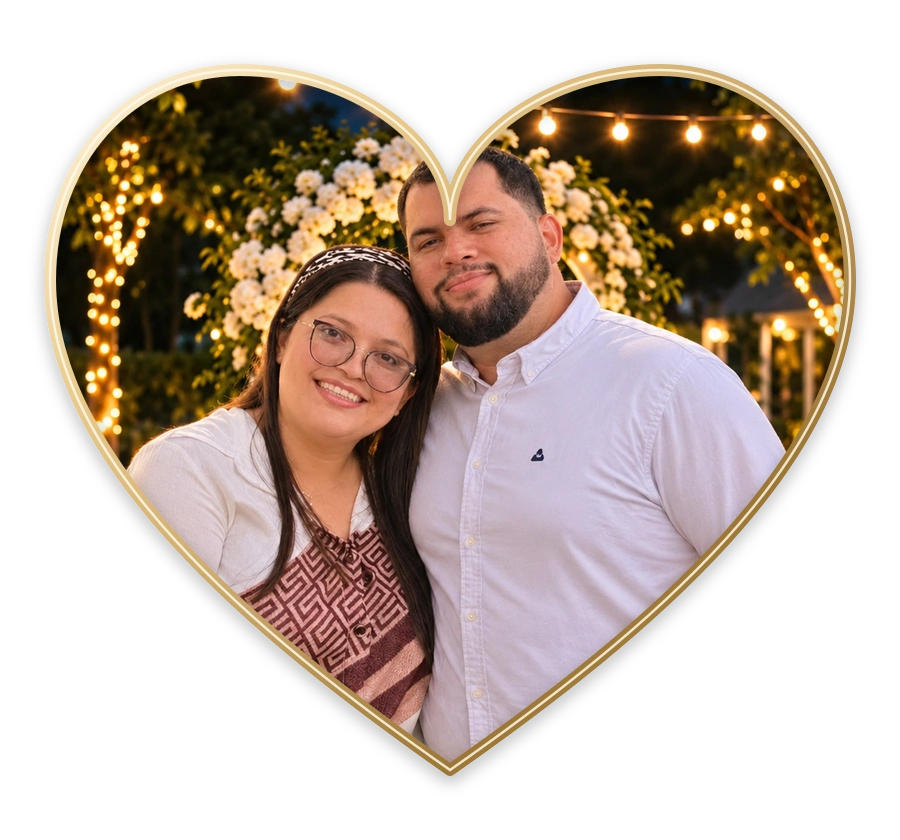
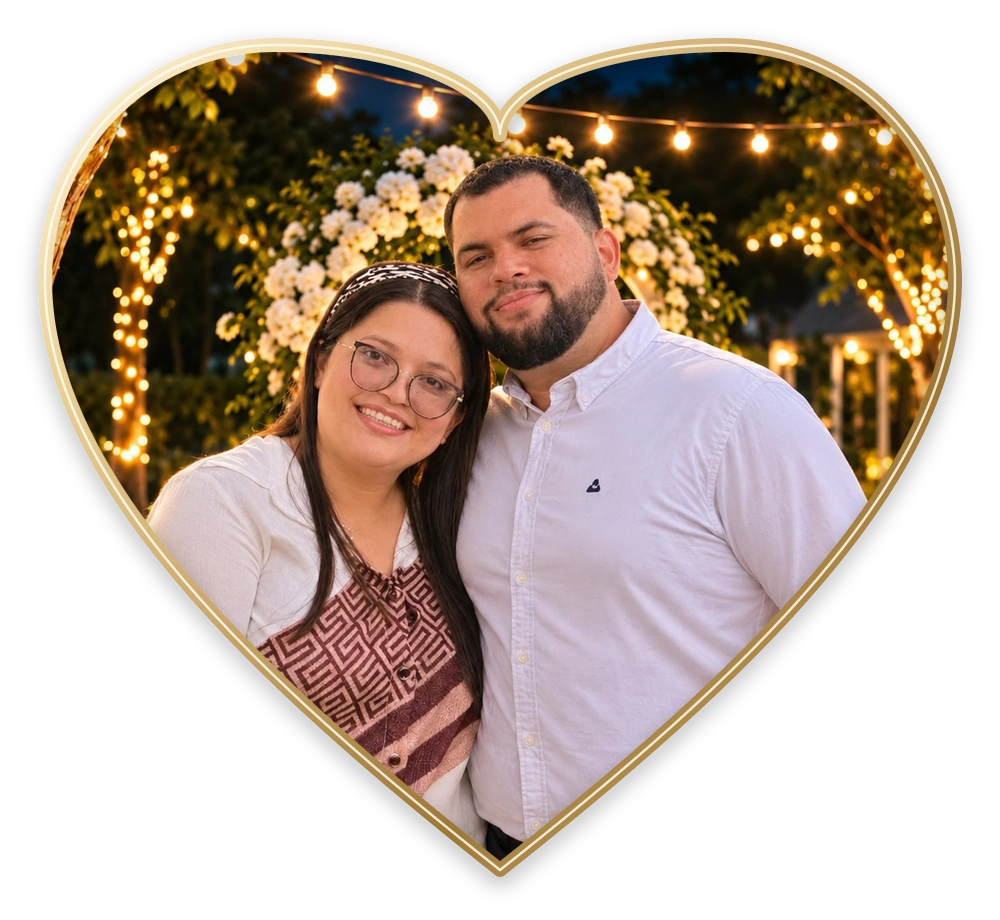
fix(dresscode): enlarge heart frame by 35%, soften cleavage, and adjust photo headroom

diff --git a/scripts/generate-heart-frame.js b/scripts/generate-heart-frame.js
@@ -1,12 +1,21 @@
 const sharp = require('sharp');
 const path = require('path');
 
-const W = 900;
-const H = 840;
+const W = 1000;
+const H = 920;
 
-// Beautiful romantic heart path with generous top lobes for two faces
-// Coordinates designed for 900x840
-const heartPath = 'M 450 220 C 450 140, 350 70, 240 70 C 130 70, 50 160, 50 280 C 50 460, 250 630, 450 770 C 650 630, 850 460, 850 280 C 850 160, 770 70, 660 70 C 550 70, 450 140, 450 220 Z';
+// Romantic heart with wide, gentle upper curvature and shallow indentation
+// Designed so the upper dip does not cut into either person's head
+const heartPath = `
+  M 500 135
+  C 500 85, 395 45, 275 45
+  C 145 45, 45 150, 45 280
+  C 45 480, 260 680, 500 870
+  C 740 680, 955 480, 955 280
+  C 955 150, 855 45, 725 45
+  C 605 45, 500 85, 500 135
+  Z
+`.trim().replace(/\s+/g, ' ');
 
 const maskSvg = Buffer.from(`
 <svg width="${W}" height="${H}" viewBox="0 0 ${W} ${H}" xmlns="http://www.w3.org/2000/svg">
@@ -18,20 +27,21 @@ const borderSvg = Buffer.from(`
 <svg width="${W}" height="${H}" viewBox="0 0 ${W} ${H}" xmlns="http://www.w3.org/2000/svg">
   <defs>
     <linearGradient id="goldGrad" x1="0%" y1="0%" x2="100%" y2="100%">
-      <stop offset="0%" stop-color="#FFF5DE" />
-      <stop offset="25%" stop-color="#E8CA8C" />
-      <stop offset="50%" stop-color="#C8A569" />
-      <stop offset="75%" stop-color="#9C7736" />
-      <stop offset="100%" stop-color="#D4B376" />
+      <stop offset="0%" stop-color="#FFF6E0" />
+      <stop offset="20%" stop-color="#ECD299" />
+      <stop offset="45%" stop-color="#C8A569" />
+      <stop offset="70%" stop-color="#9C7736" />
+      <stop offset="85%" stop-color="#C8A569" />
+      <stop offset="100%" stop-color="#EED59E" />
     </linearGradient>
-    <filter id="goldGlow" x="-10%" y="-10%" width="120%" height="120%">
-      <feDropShadow dx="0" dy="6" stdDeviation="8" flood-color="rgba(0,0,0,0.3)" />
+    <filter id="goldGlow" x="-15%" y="-15%" width="130%" height="130%">
+      <feDropShadow dx="0" dy="8" stdDeviation="10" flood-color="rgba(0,0,0,0.3)" />
     </filter>
   </defs>
-  <!-- Outer subtle shadow border -->
-  <path d="${heartPath}" fill="none" stroke="url(#goldGrad)" stroke-width="12" stroke-linejoin="round" filter="url(#goldGlow)" />
-  <!-- Inner thin gold hairline -->
-  <path d="${heartPath}" fill="none" stroke="#FFF8E8" stroke-width="2.5" stroke-opacity="0.85" />
+  <!-- Outer metallic gold border -->
+  <path d="${heartPath}" fill="none" stroke="url(#goldGrad)" stroke-width="14" stroke-linejoin="round" filter="url(#goldGlow)" />
+  <!-- Inner delicate bright golden line -->
+  <path d="${heartPath}" fill="none" stroke="#FFFBF0" stroke-width="2.5" stroke-opacity="0.85" />
 </svg>
 `);
 
@@ -40,26 +50,56 @@ async function run() {
   const outArtifact = 'C:/Users/Najip/.gemini/antigravity/brain/add89a44-31c8-4b18-99b3-21df3c1cd72a/heart-preview.png';
   const outPublic = path.resolve(__dirname, '../public/images/assets/dresscode-novios-heart.webp');
 
-  // We want the photo cropped and scaled so both heads fit comfortably inside the heart lobes
-  // In novios.png (1158x1219), faces are around y: 150-700
-  const resizedPhoto = await sharp(inputPath)
-    .resize(W, H, { fit: 'cover', position: sharp.position.top })
+  // Scale photo so both heads and surrounding lights have ample headroom
+  // Original is 1158 x 1219 (aspect ~ 0.95)
+  // We scale to 960 width x 1010 height (proportional, no distortion!)
+  const photoW = 960;
+  const photoH = Math.round((1219 / 1158) * photoW); // 1010
+
+  // Resize and extract top 920px (faces are in the top-middle)
+  const scaledPhoto = await sharp(inputPath)
+    .resize(photoW, photoH)
+    .extract({ left: 0, top: 0, width: photoW, height: 920 })
     .toBuffer();
 
-  const masked = await sharp(resizedPhoto)
-    .composite([{ input: maskSvg, blend: 'dest-in' }])
+  // Create empty transparent canvas of W x H (1000 x 920)
+  // Place photo centered horizontally (left: (1000-960)/2 = 20)
+  const canvasWithPhoto = await sharp({
+    create: {
+      width: W,
+      height: H,
+      channels: 4,
+      background: { r: 0, g: 0, b: 0, alpha: 0 }
+    }
+  })
+    .composite([
+      { input: scaledPhoto, left: 20, top: 0 }
+    ])
+    .png()
     .toBuffer();
 
-  const finalImage = await sharp(masked)
-    .composite([{ input: borderSvg, blend: 'over' }])
+  // Mask with heart
+  const masked = await sharp(canvasWithPhoto)
+    .composite([
+      { input: maskSvg, blend: 'dest-in' }
+    ])
+    .png()
+    .toBuffer();
+
+  // Overlay gold border
+  await sharp(masked)
+    .composite([
+      { input: borderSvg, blend: 'over' }
+    ])
     .webp({ quality: 96 })
     .toFile(outPublic);
 
+  // Also write PNG for inspection
   await sharp(outPublic)
     .png()
     .toFile(outArtifact);
 
-  console.log('Heart frame generated successfully!');
+  console.log('New spacious heart frame generated successfully!');
 }
 
 run().catch(console.error);

diff --git a/src/components/invitation/sections/section-05-dresscode.tsx b/src/components/invitation/sections/section-05-dresscode.tsx
@@ -61,7 +61,7 @@ export default function Section05Dresscode({ settings }: Props) {
         />
       </div>
 
-      <div className="relative z-10 space-y-4 pt-6 pb-7">
+      <div className="relative z-10 space-y-4 pt-6 pb-10 sm:pb-12">
         <div>
           <p className="font-cinzel text-[10px] sm:text-[11px] tracking-[0.28em] text-[#8C6D37] uppercase font-semibold">
             CÓDIGO DE VESTIMENTA
@@ -71,28 +71,28 @@ export default function Section05Dresscode({ settings }: Props) {
           </h2>
         </div>
 
-        {/* Fotografía de los novios en marco romántico de corazón */}
-        <div className="relative inline-block mx-auto pt-1 pb-3">
-          <div className="relative w-[240px] sm:w-[260px] mx-auto">
+        {/* Fotografía de los novios en marco romántico de corazón ampliado (+35%) */}
+        <div className="relative flex flex-col items-center justify-center mx-auto pt-1 pb-2">
+          <div className="relative w-full max-w-[320px] sm:max-w-[350px] mx-auto">
             <Image
               src="/images/assets/dresscode-novios-heart.webp"
               alt="Daren y Fabiola"
-              width={900}
-              height={840}
+              width={1000}
+              height={920}
               unoptimized
               priority
-              className="w-full h-auto object-contain drop-shadow-[0_12px_28px_rgba(200,165,105,0.25)] transition-transform hover:scale-[1.02]"
+              className="w-full h-auto object-contain drop-shadow-[0_12px_28px_rgba(200,165,105,0.25)] transition-transform hover:scale-[1.01]"
             />
             {/* Sello distintivo con filigrana dorada en la punta del corazón */}
-            <div className="absolute -bottom-2 left-1/2 -translate-x-1/2 whitespace-nowrap z-10">
-              <span className="inline-flex items-center px-4 py-1 rounded-full bg-gradient-to-r from-[#0E1A29] to-[#1A314D] border border-[#C8A569] font-cinzel text-[9.5px] sm:text-[10px] tracking-widest text-[#E5C388] uppercase font-bold shadow-[0_4px_12px_rgba(0,0,0,0.35)]">
+            <div className="absolute -bottom-2.5 left-1/2 -translate-x-1/2 whitespace-nowrap z-10">
+              <span className="inline-flex items-center px-4 py-1.5 rounded-full bg-gradient-to-r from-[#0E1A29] to-[#1A314D] border border-[#C8A569] font-cinzel text-[10px] sm:text-[10.5px] tracking-widest text-[#E5C388] uppercase font-bold shadow-[0_4px_14px_rgba(0,0,0,0.4)]">
                 {settings.dresscode_subtitle || "VESTIMENTA FORMAL"}
               </span>
             </div>
           </div>
         </div>
 
-        <p className="font-serif italic text-[14px] sm:text-[15px] text-[#2D3A4B] max-w-xs mx-auto leading-relaxed">
+        <p className="font-serif italic text-[14px] sm:text-[15px] text-[#2D3A4B] max-w-xs sm:max-w-sm mx-auto leading-relaxed pt-2">
           {settings.dresscode_description ||
             "Nos encantaría que nos acompañaras luciendo tu mejor atuendo para celebrar juntos una noche llena de amor, alegría y elegancia."}
         </p>
